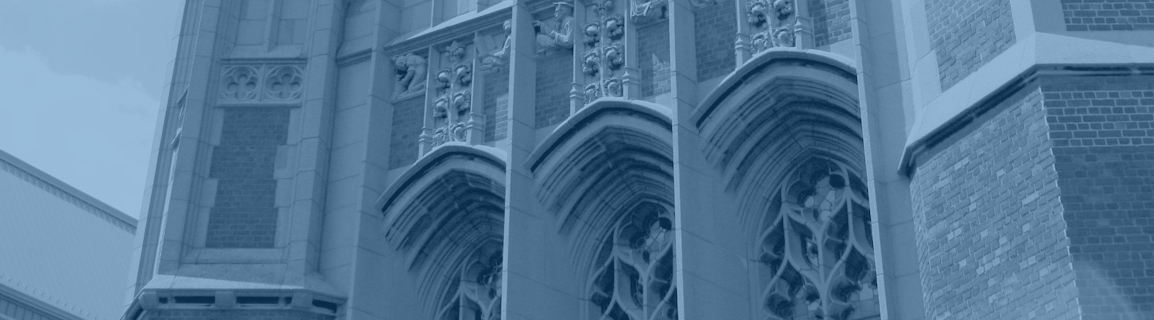
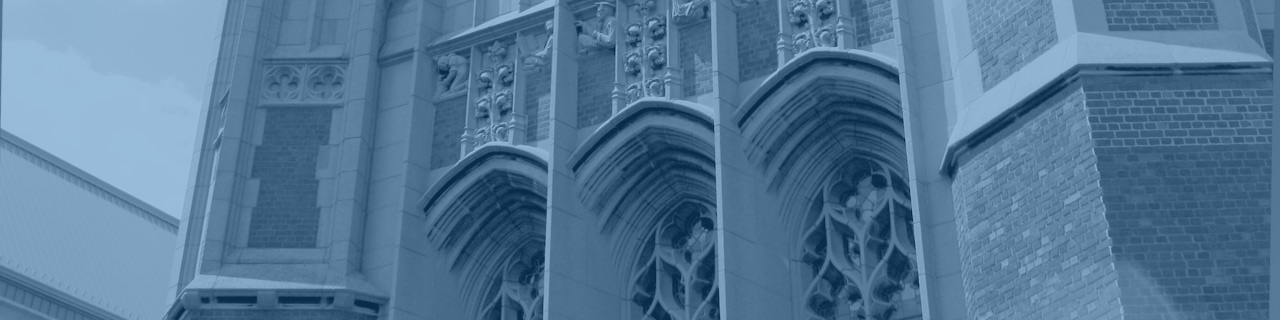
changed css
changed colors and edited design

diff --git a/addScholarship.html b/addScholarship.html
@@ -1,6 +1,10 @@
 <!DOCTYPE html>
 <html>
   <head>
+    <link
+      href="https://fonts.googleapis.com/css?family=Montserrat|Roboto&display=swap"
+      rel="stylesheet"
+    />
     <meta name="viewport" content="width=device-width" />
     <link rel="stylesheet" type="text/css" href="./styles/addScholarship.css" />
   </head>
@@ -24,27 +28,38 @@
         </nav>
       </div>
     </header>
-  
+
     <form class="add">
-      <label for=sName>Scholarship Name:</label><br>
-      <input type="text" id="sName" size=30><br><br>
-     
-      <label for=departments>Department:</label><br>
-      <select id="departments" name="departments"><br>
+      <label for="sName">Scholarship Name:</label><br />
+      <input type="text" id="sName" size="30" /><br /><br />
+
+      <label for="departments">Department:</label><br />
+      <select id="departments" name="departments"
+        ><br />
         <option value="actuarialSciences">Actuarial Sciences</option>
         <option value="fineArts">Fine Arts</option>
-        <option value="internRelations">International Relations</option>
-      </select><br><br>
-     
-      <label for=sDesc>Description:</label><br>
-      <textarea> </textarea><br><br>
-     
-      <label for=GPA>Minimum GPA Req:</label><br>
-      <input type="number" id="GPA" name="GPA" step="0.01" min="3.7" max="4.0";><br><br>
-     
-      <input type="submit" id=submit>
+        <option value="internRelations"
+          >International Relations</option
+        > </select
+      ><br /><br />
+
+      <label for="sDesc">Description:</label><br />
+      <textarea> </textarea><br /><br />
+
+      <label for="GPA">Minimum GPA Req:</label><br />
+      <input
+        type="number"
+        id="GPA"
+        name="GPA"
+        step="0.01"
+        min="3.7"
+        max="4.0"
+        ;
+      /><br /><br />
+
+      <input type="submit" id="submit" />
     </form>
-  
+
     <footer>
       <p>
         University of Manitoba Student Scholarship System, Copyright &copy; 2020

diff --git a/styles/home.css b/styles/home.css
@@ -1,9 +1,12 @@
+html {
+  font-family: "Roboto", sans-serif;
+}
+
 body {
-  font-family: Arial, Helvetica, sans-serif;
   font-size: 15px;
   line-height: 1.5;
   margin: 0;
-  background: #edeae5;
+  background: #f6f6f2;
   color: white;
 }
 
@@ -26,13 +29,12 @@ nav li {
 
 /* Elements in list */
 nav a {
-  color: white;
+  color: #6fb3b8;
   display: inline-block;
   padding-left: 20px;
   text-decoration: none;
   text-transform: uppercase;
-  font-size: 16px;
-  font-family: monospace;
+  font-size: 14px;
 }
 
 /*Global*/
@@ -44,13 +46,17 @@ nav a {
 
 /*Header*/
 header {
-  background: #35424a;
-  color: #ffffff;
+  background: #f6f6f2;
+  color: #388087;
   padding-top: 30px;
   min-height: 70px;
-  border-bottom: #ffffff 3px solid;
+  font-family: "Montserrat", sans-serif;
 }
-
+/*Header link*/
+header a {
+  color: #388087;
+  text-decoration: none;
+}
 /* Univeristy of Manitoba Logo */
 header #branding {
   float: left;
@@ -61,12 +67,12 @@ header #branding h1 {
 }
 /* Background image */
 #showcase {
-  min-height: 400px;
+  min-height: 450px;
   background: url("./images/showcase.jpg") no-repeat;
   background-position: auto;
-  background-size: contain;
+  background-size: cover;
   text-align: center;
-  color: #ffffff;
+  color: #f6f6f2;
 }
 
 #showcase h1 {
@@ -80,11 +86,11 @@ header #branding h1 {
 }
 
 #boxes {
-  margin-top: 20px;
+  margin-top: 50px;
 }
 #boxes a {
   text-decoration: none;
-  color: #254e58;
+  color: #388087;
 }
 
 #boxes .box {
@@ -100,7 +106,7 @@ header #branding h1 {
 }
 
 #boxes #title {
-  color: #102941;
+  color: #388087;
   text-align: center;
   font-size: 24px;
 }
@@ -108,6 +114,6 @@ footer {
   padding: 20px;
   margin-top: 20px;
   color: #ffffff;
-  background-color: #35424a;
+  background-color: #83b9bd;
   text-align: center;
 }

diff --git a/styles/addScholarship.css b/styles/addScholarship.css
@@ -1,9 +1,12 @@
+html {
+  font-family: "Roboto", sans-serif;
+}
+
 body {
-  font-family: Arial, Helvetica, sans-serif;
   font-size: 15px;
   line-height: 1.5;
   margin: 0;
-  background: #edeae5;
+  background: #f6f6f2;
   color: white;
 }
 
@@ -26,13 +29,12 @@ nav li {
 
 /* Elements in list */
 nav a {
-  color: white;
+  color: #6fb3b8;
   display: inline-block;
   padding-left: 20px;
   text-decoration: none;
   text-transform: uppercase;
-  font-size: 16px;
-  font-family: monospace;
+  font-size: 14px;
 }
 
 /*Global*/
@@ -44,13 +46,17 @@ nav a {
 
 /*Header*/
 header {
-  background: #35424a;
-  color: #ffffff;
+  background: #f6f6f2;
+  color: #388087;
   padding-top: 30px;
   min-height: 70px;
-  border-bottom: #ffffff 3px solid;
+  font-family: "Montserrat", sans-serif;
 }
-
+/*Header link*/
+header a {
+  color: #388087;
+  text-decoration: none;
+}
 /* Univeristy of Manitoba Logo */
 header #branding {
   float: left;
@@ -60,27 +66,28 @@ header #branding h1 {
   margin: 0;
 }
 
-.add
-{
-  padding-left: 20px;
+.add {
+  padding-left: 100px;
   border-color: black;
   color: black;
   font-family: monospace;
 }
 
- /*text area for description*/
+/*text area for description*/
 textarea {
   font-family: Arial;
-  width:500px;
+  width: 500px;
   height: 100px;
   font-size: 12px;
   color: black;
   resize: none;
 }
 
-input, select, textarea{
+input,
+select,
+textarea {
   font-family: inherit;
-  font-size: 100%
+  font-size: 100%;
 }
 
 br {

diff --git a/home.html b/home.html
@@ -3,13 +3,17 @@
   <head>
     <meta name="viewport" content="width=device-width" />
     <link rel="stylesheet" type="text/css" href="./styles/home.css" />
+    <link
+      href="https://fonts.googleapis.com/css?family=Montserrat|Roboto&display=swap"
+      rel="stylesheet"
+    />
   </head>
 
   <body>
     <header>
       <div class="container">
         <div id="branding">
-          <h1>University of Manitoba</h1>
+          <h1><a href="home.html">University of Manitoba</a></h1>
         </div>
 
         <!--Navigation Bar-->
